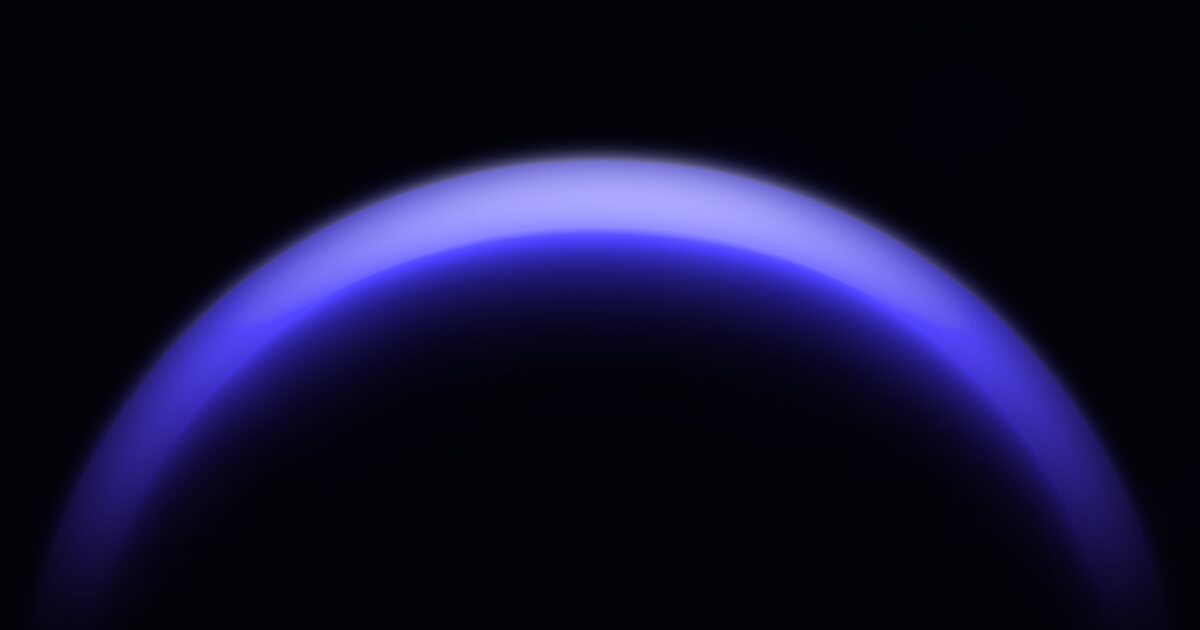
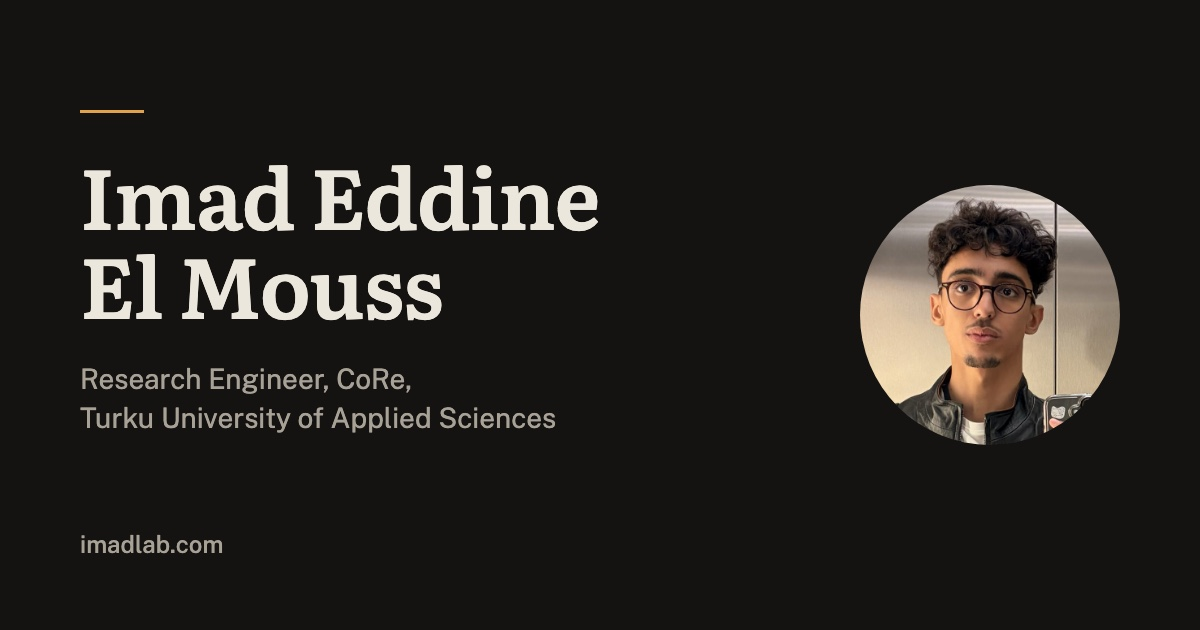
fix: admin RLS checks the admin uid instead of user-editable metadata; new share image

Changed region(s): [[0.0308, 0.2111, 0.9558, 0.9349], [0.0617, 0.1508, 0.1233, 0.181]]

diff --git a/index.html b/index.html
@@ -33,7 +33,7 @@
     <meta property="og:image:type" content="image/jpeg" />
     <meta property="og:image:width" content="1200" />
     <meta property="og:image:height" content="630" />
-    <meta property="og:image:alt" content="Imadlab | Research Engineer, On-Premises Industrial AI" />
+    <meta property="og:image:alt" content="Imad Eddine El Mouss, Research Engineer at CoRe, Turku University of Applied Sciences" />
     <meta property="og:locale" content="en_US" />
     <meta property="og:site_name" content="Imadlab" />
     <meta name="twitter:card" content="summary_large_image" />
@@ -45,7 +45,7 @@
       content="Research Engineer at CoRe (Turku UAS) and architect of AIOP, an on-premises event-driven AI platform, building deployable, Privacy-by-Design industrial AI systems."
     />
     <meta name="twitter:image" content="https://imadlab.com/images/og-default.jpg" />
-    <meta name="twitter:image:alt" content="Imadlab | Research Engineer, On-Premises Industrial AI" />
+    <meta name="twitter:image:alt" content="Imad Eddine El Mouss, Research Engineer at CoRe, Turku University of Applied Sciences" />
     <!-- prerender-seo:end -->
 
     <!-- Favicon and Theme Color -->
